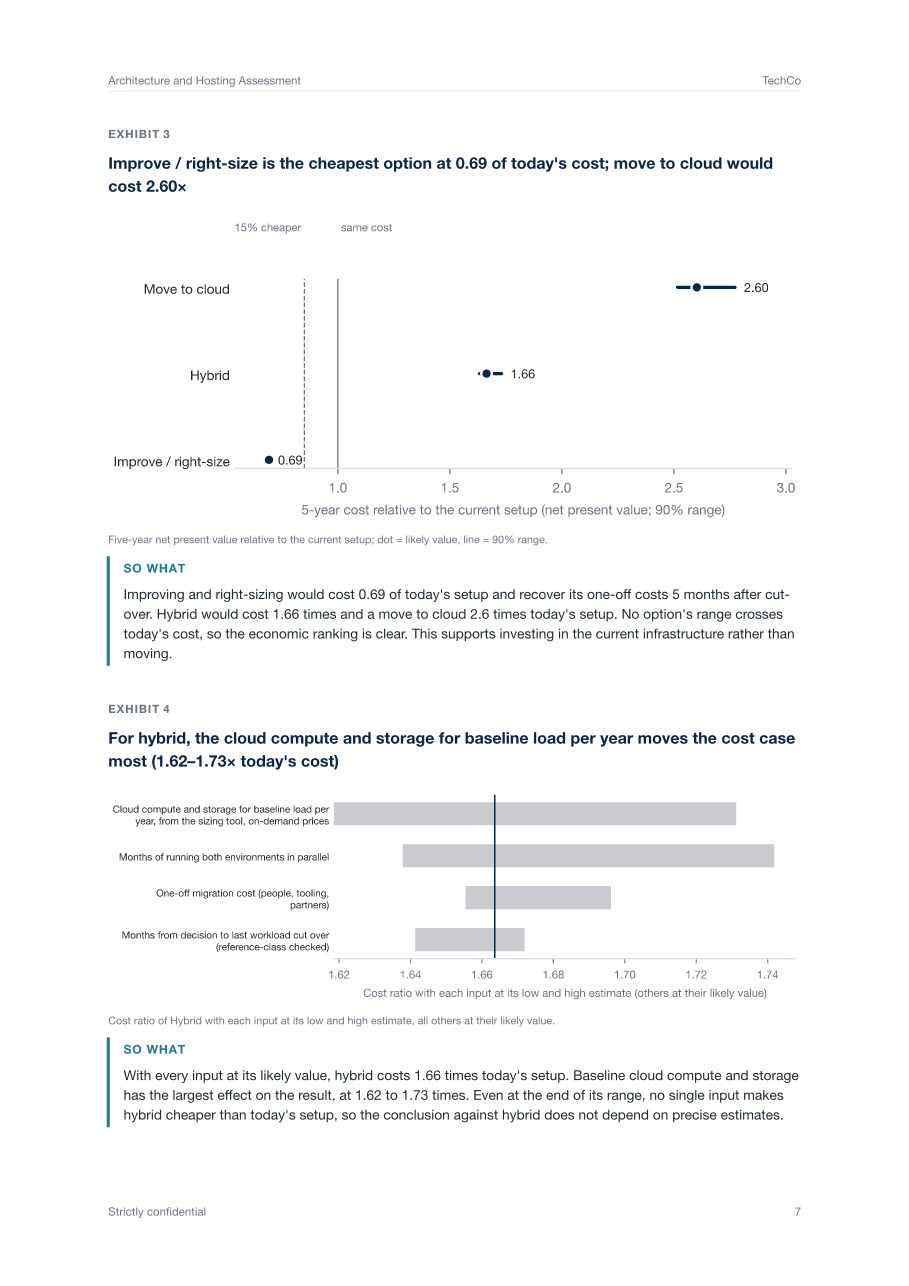
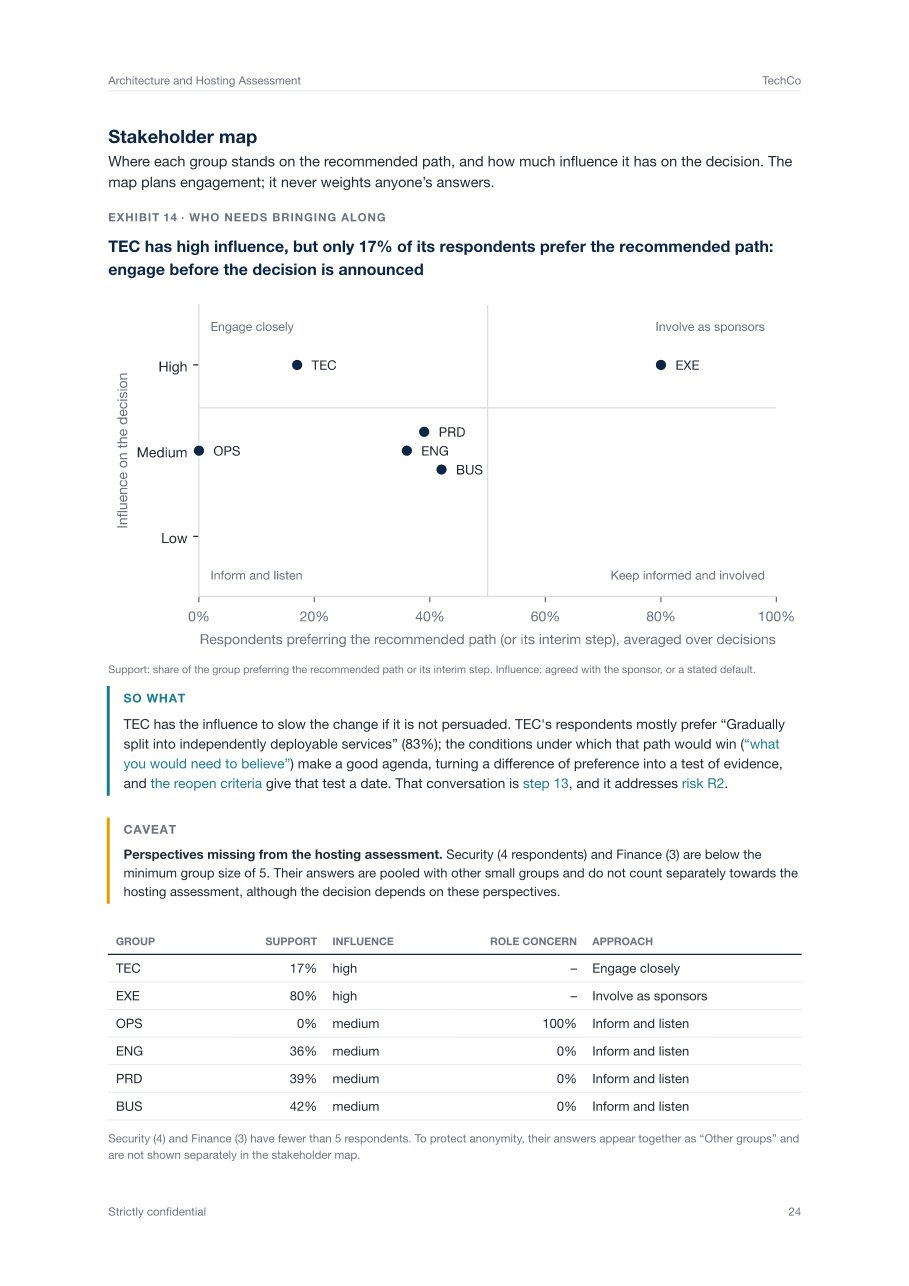
Refresh the README for the board-ready report
- New screenshots from the final TechCo report: the decision page and
  the stakeholder-map exhibit with its linked so-what and a caveat
  (report-executive-summary.png replaced by report-decision-page.png)
- What you get: decision request, options and what you would need to
  believe, the money in euros (inaction, scenarios, calendar,
  investment, budget by phase), lead time and DORA benchmark,
  qualifications where sources disagree, risks, checkpoints, success
  measures and reopen criteria
- How it decides: sources read against each other
- Running an assessment: sign-off date, architecture estimates and
  reference class, draft then quality review and --final
- Branding: euro and stakeholder-map switches, benchmark group
- Limitations: cost-only business case, self-reported benchmarks

diff --git a/README.md b/README.md
@@ -25,15 +25,17 @@ One report per assessment, ready for an executive audience:
 
 <table>
 <tr>
-<td width="50%"><img src="assets/report-executive-summary.png" alt="Executive summary page"></td>
-<td width="50%"><img src="assets/report-exhibit.png" alt="Exhibit with action title and interpretation"></td>
+<td width="50%"><img src="assets/report-decision-page.png" alt="Decision requested page"></td>
+<td width="50%"><img src="assets/report-exhibit.png" alt="Exhibit with action title, so what and caveat"></td>
 </tr>
 <tr>
-<td><em>Executive summary: a recommended path per decision, whether to proceed or prepare first, and why.</em></td>
-<td><em>Every exhibit states its insight, its role in the argument, and what it means for the decision — linked to the related findings, steps and risks.</em></td>
+<td><em>Page one asks for a decision: what to approve now and who leads it, what is not approved yet, the money, the open conditions, and when the decision is taken again.</em></td>
+<td><em>Every exhibit states its insight and its role in the argument; its “so what” links to the related findings, steps and risks, and caveats sit beside what they qualify.</em></td>
 </tr>
 </table>
 
+- **A decision request on page one** — per decision, what to approve now and who leads it, what is explicitly not
+  approved yet, the first-phase budget, the open conditions, and the checkpoints and dates at which it is decided again.
 - **A recommended path for each decision**, with the probability that it holds:
   - *Architecture* — keep and improve delivery practices · restructure within the current system (modular monolith)
     · separate out one or two specific parts · gradually split into services · realign or consolidate existing services.
@@ -41,14 +43,24 @@ One report per assessment, ready for an executive audience:
     · move back from the cloud.
 - **Why** — the evidence behind the verdict, and the single changes that would alter it
   ("splitting into services would apply if the need for change were at least 3.5; it is 3.3").
+- **Every option considered** — side by side, with what you would need to believe for each alternative to win, so
+  that a difference of opinion becomes a test of evidence.
 - **What must happen first** — preconditions (sponsor, funding, capacity, baselines, stop criteria) with their status,
   and technical hard stops such as releases that cannot be rolled back.
-- **The cost case** — five-year cost of every hosting option with ranges, payback and the inputs it depends on.
+- **The money** — five-year cost of every hosting option in euros with ranges, what doing nothing costs, worst / base
+  / best scenarios with break-even values, a decision calendar (hardware refresh, contract end), the estimated
+  investment for the recommended architecture path, and a budget by phase across both decisions.
 - **Organisational readiness** — how each stakeholder group rates capabilities, ways of working and alignment, where
-  groups disagree, and the weakest areas.
+  groups disagree, the weakest areas, where lead time actually goes, and delivery performance against the industry
+  benchmarks of DORA (Google Cloud's software-delivery research programme).
 - **Stakeholder perspectives** — preferences, how each option would affect people's roles, and where perception and
   measurement differ; reported for groups only, framed as input for planning and communication.
-- **Next steps** with owners, drawn from an editable action library.
+- **Qualifications where the sources disagree** — the fact sheet, governance answers, survey and free text are read
+  against each other; contradictions are printed beside the findings they affect, and serious ones keep the report a
+  draft.
+- **Risks, assumptions and dependencies**, a roadmap with checkpoints, success measures with baselines and targets,
+  and criteria agreed now for when each decision is reopened.
+- **Next steps** with named owners, drawn from an editable action library.
 - Optionally, an **analysis of free-text answers** and a written **executive narrative** (see [AI-assisted analysis](#ai-assisted-analysis)).
 
 ## Who it is for
@@ -73,9 +85,10 @@ mra report examples/techco/engagement.yaml             # → Output/techco-repor
 
 `examples/techco` is a synthetic company — one monolith shared by eight teams, its own bare-metal hosting, a technology
 lead who favours microservices and the cloud, and an operations team that favours keeping what it runs. The report
-recommends restructuring within the system (once baselines are measured) and right-sizing the current
-infrastructure rather than moving to the cloud. `mra decide examples/techco/engagement.yaml` prints the same verdict in
-the terminal.
+recommends preparing a restructuring within the system (about €470k once baselines are verified) and right-sizing
+the current infrastructure rather than moving to the cloud, and qualifies both: the delivery measures are not yet
+verified, the invoiced run cost is twice what the cost model accounts for, and too few Security and Finance
+respondents took part to count separately. `mra decide examples/techco/engagement.yaml` prints the same verdict in the terminal.
 
 ## How it decides
 
@@ -101,6 +114,10 @@ the terminal.
   recommendation to keep the current state.
 - **The rules are pre-registered.** Thresholds live in a YAML file that stakeholders sign off before results are
   seen. Any adjustment to the defaults is visible: the report shows what the unmodified rules would have said.
+- **The sources are read against each other.** Delivery measures the governance checklist says were never measured,
+  an invoiced run cost the cost model cannot account for, urgency in free text that the dates do not support, a
+  view the survey contradicts — each is printed beside the finding it qualifies. If one could change the verdict,
+  or the rules were not signed off in time, the report stays a draft.
 - **Keeping what you have needs no preconditions; changing it does.** This favours reversible choices, and it is stated
   openly so that both sides of the debate sign it knowingly.
 - **Personal stakes are measured, not judged.** Respondents state their preferred direction and how each option would
@@ -119,21 +136,26 @@ mra init engagements/acme        # a folder with annotated templates and a check
 
 1. **Scope.** In `engagement.yaml`, name the system and its current hosting, the sponsor of the change and the person
    who owns the fact sheet. These must be different people.
-2. **Agree the rules.** Review `decision_rules.yaml` with the stakeholders and record who signed it off — before any
-   results exist.
+2. **Agree the rules.** Review `decision_rules.yaml` with the stakeholders and record who signed it off and when —
+   before the fact sheet is frozen and before any results exist.
 3. **Collect the facts.** Fill in `facts.yaml`. Coupling metrics come from the repository:
    ```bash
    mra coupling path/to/repo --modules modules.yaml      # or --codeowners CODEOWNERS
    ```
-   Give cost inputs as low / likely / high estimates with their source, ideally from two independent estimators.
-   Record the date the sheet was frozen.
+   Give cost inputs as low / likely / high estimates with their source grade, from two independent estimators —
+   including the effort, external cost and duration of the first architecture steps. If you know how much comparable
+   past programmes overran, record it: it raises the high end of the effort, cost and duration estimates. Record the date
+   the sheet was frozen.
 4. **Run the survey.** `mra forms engagements/acme/engagement.yaml --out forms.gs` writes a Google Apps Script that
    creates one form per stakeholder group (paste it into script.google.com and run `createForms`). Send the forms with
    the participant information in [`instrument/participant-information.md`](instrument/participant-information.md),
    from a sender who is not an advocate of either side, and save each group's export as `Responses/<GROUP>.csv`.
 5. **Read the verdict.** `mra decide engagements/acme/engagement.yaml`
 6. **Attest the preconditions** for the recommended path in `governance.yaml`, each with an evidence reference.
-7. **Produce the report.** `mra report engagements/acme/engagement.yaml --output acme.pdf`
+7. **Produce the report.** `mra report engagements/acme/engagement.yaml --output acme.pdf` builds a draft and lists
+   any board-readiness check that fails.
+8. **Review and issue.** A second person works through the [quality review](docs/quality-review.md) and is named
+   under `report:` in `engagement.yaml`; `mra report … --final` then builds the final report, or refuses and says why.
 
 The tool checks the fact sheet as it goes — a sponsor attesting their own facts, hand-entered coupling metrics,
 implausibly wide estimates without justification, missing second attesters — and lists any findings in the report.
@@ -155,7 +177,9 @@ The report is typeset with [Typst](https://typst.app) and needs no separate inst
 - **Look and feel** — copy `report/templates/default/` and edit the `theme` at the top of `template.typ`: colours,
   fonts, and an optional logo. Fonts placed in a `fonts/` folder next to the template are picked up automatically.
 - **Report details** — organisation, title, "prepared for / by", date and classification are set per engagement under
-  `report:` in `engagement.yaml`.
+  `report:` in `engagement.yaml`, as are whether absolute euro amounts are shown and whether the stakeholder map is
+  included (off by default; discuss it with the sponsor first). The comparison group for the industry benchmark
+  (industry, organisation size) is set under `benchmark:`.
 - **Wording** — next steps come from [`instrument/recommendations.yaml`](instrument/recommendations.yaml) and the
   description of each path from [`instrument/outcomes.yaml`](instrument/outcomes.yaml); both can be rewritten in your
   own voice without touching the analysis.
@@ -215,7 +239,7 @@ pass, the decision rules were signed off before the facts were frozen, and a sec
 ├── mra/                 the analysis package and command line
 ├── report/templates/    report template (Typst) — copy to brand it
 ├── examples/techco/     a complete synthetic assessment
-├── docs/                design notes and the calibration report
+├── docs/                design notes, plans, the calibration report and the quality-review checklist
 ├── tests/               automated tests, including the expert walk-through cases
 └── Decision.ipynb       validation notebook
 ```
@@ -243,6 +267,9 @@ an issue before larger changes.
 - Groups smaller than five are not scored, and below about fifteen per group the evidence is indicative.
 - The questionnaire has been reviewed by experts and tested on synthetic data; a cognitive pretest with real
   respondents should precede its first use.
+- The business case is cost-only: the benefits of a change (faster delivery, fewer incidents) are not yet valued,
+  and will be added once a pilot provides data to calibrate them.
+- Industry benchmarks are what DORA's survey respondents report; the comparison with measured values is indicative.
 - Build-versus-buy (replacing parts with SaaS) is flagged but not yet evaluated as a decision.
 
 ## License
